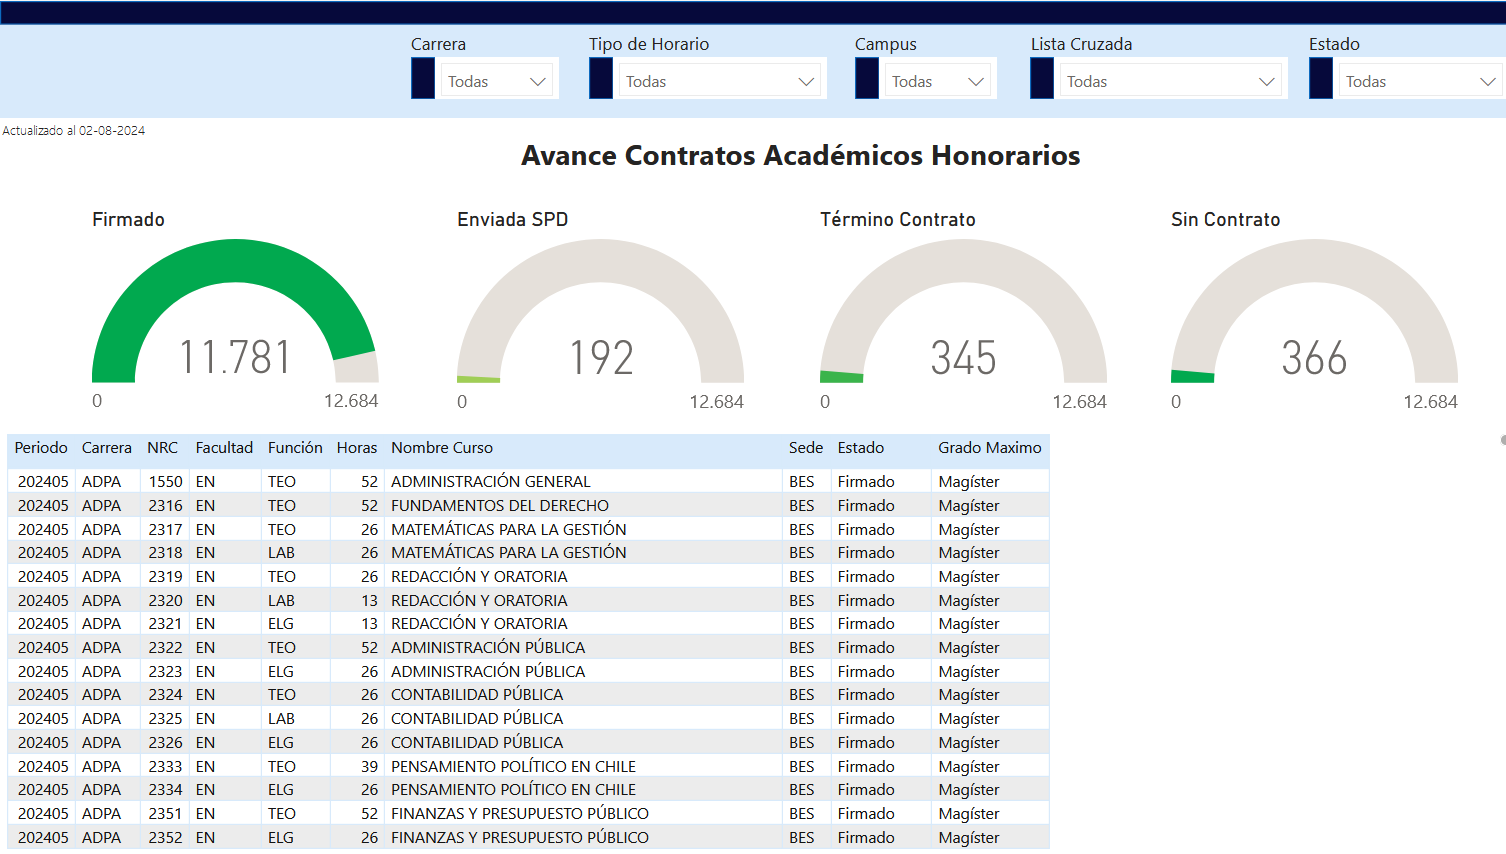
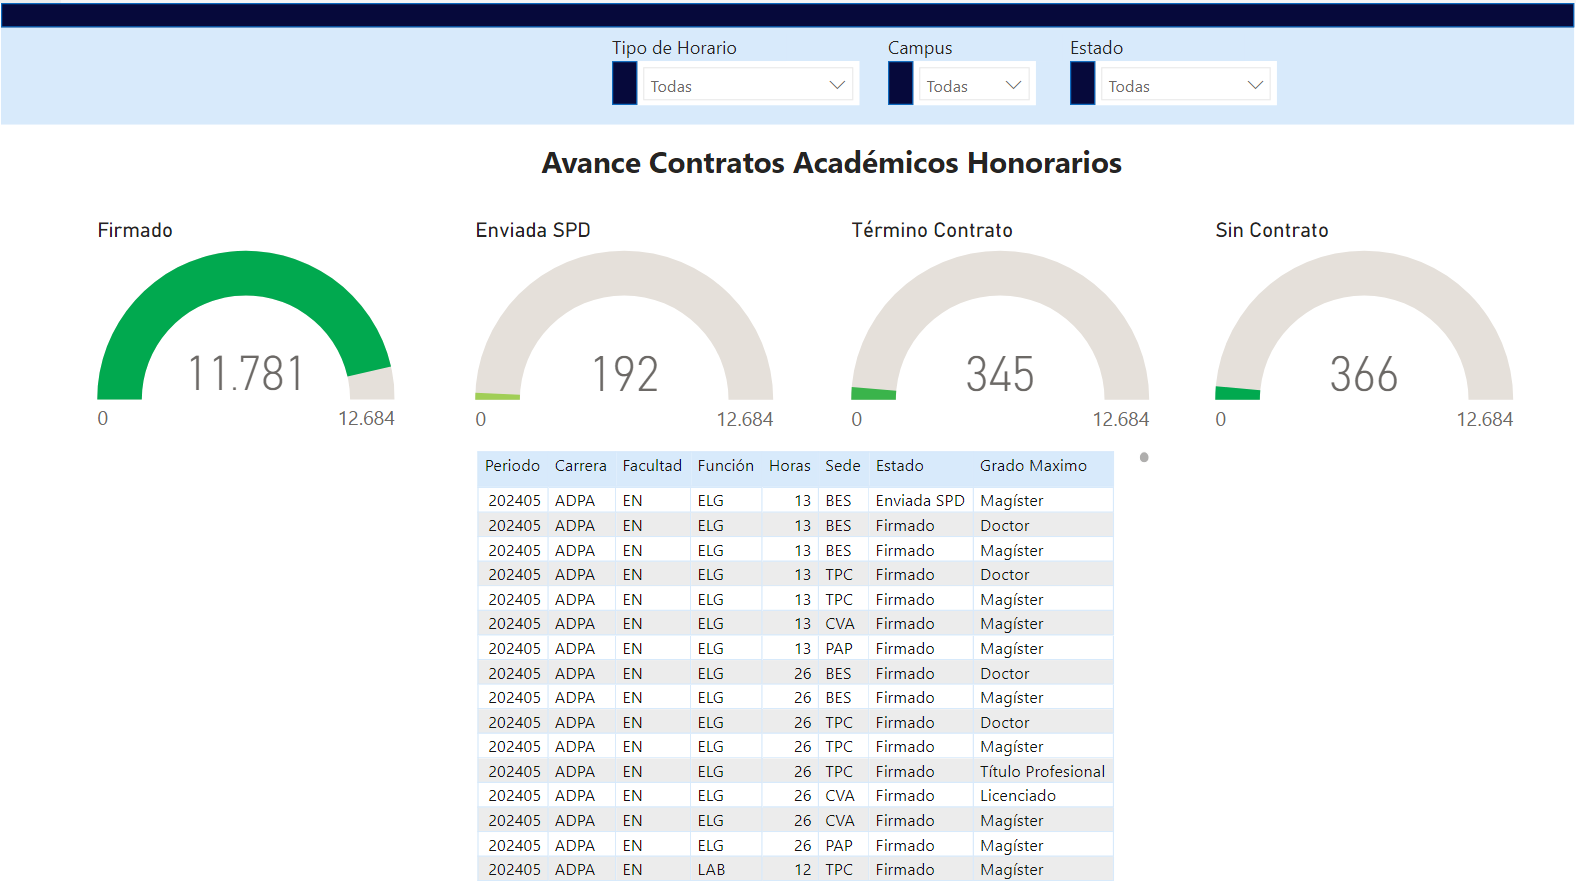
UPDATE README file Reporte_5

diff --git a/Reporte_5/README.md b/Reporte_5/README.md
@@ -14,4 +14,4 @@ Modelo de datos: La información obtenida para este reporte se obtenia en Excel 
 
 ![alt text](image-2.png)
 
-Video para enseñar su funcionamiento: "https://youtu.be/D06DQspU7ZA"
+Para informe detallado : "https://app.powerbi.com/view?r=eyJrIjoiODcxNzQ5MDQtYjIzNy00NDA5LWExZmItYzhiMjYyMjc2ZTVhIiwidCI6IjlkYjBmYmNlLTljM2QtNGJkYi1hMTJmLTc5Njg1OWRlZjY3NyIsImMiOjR9"
